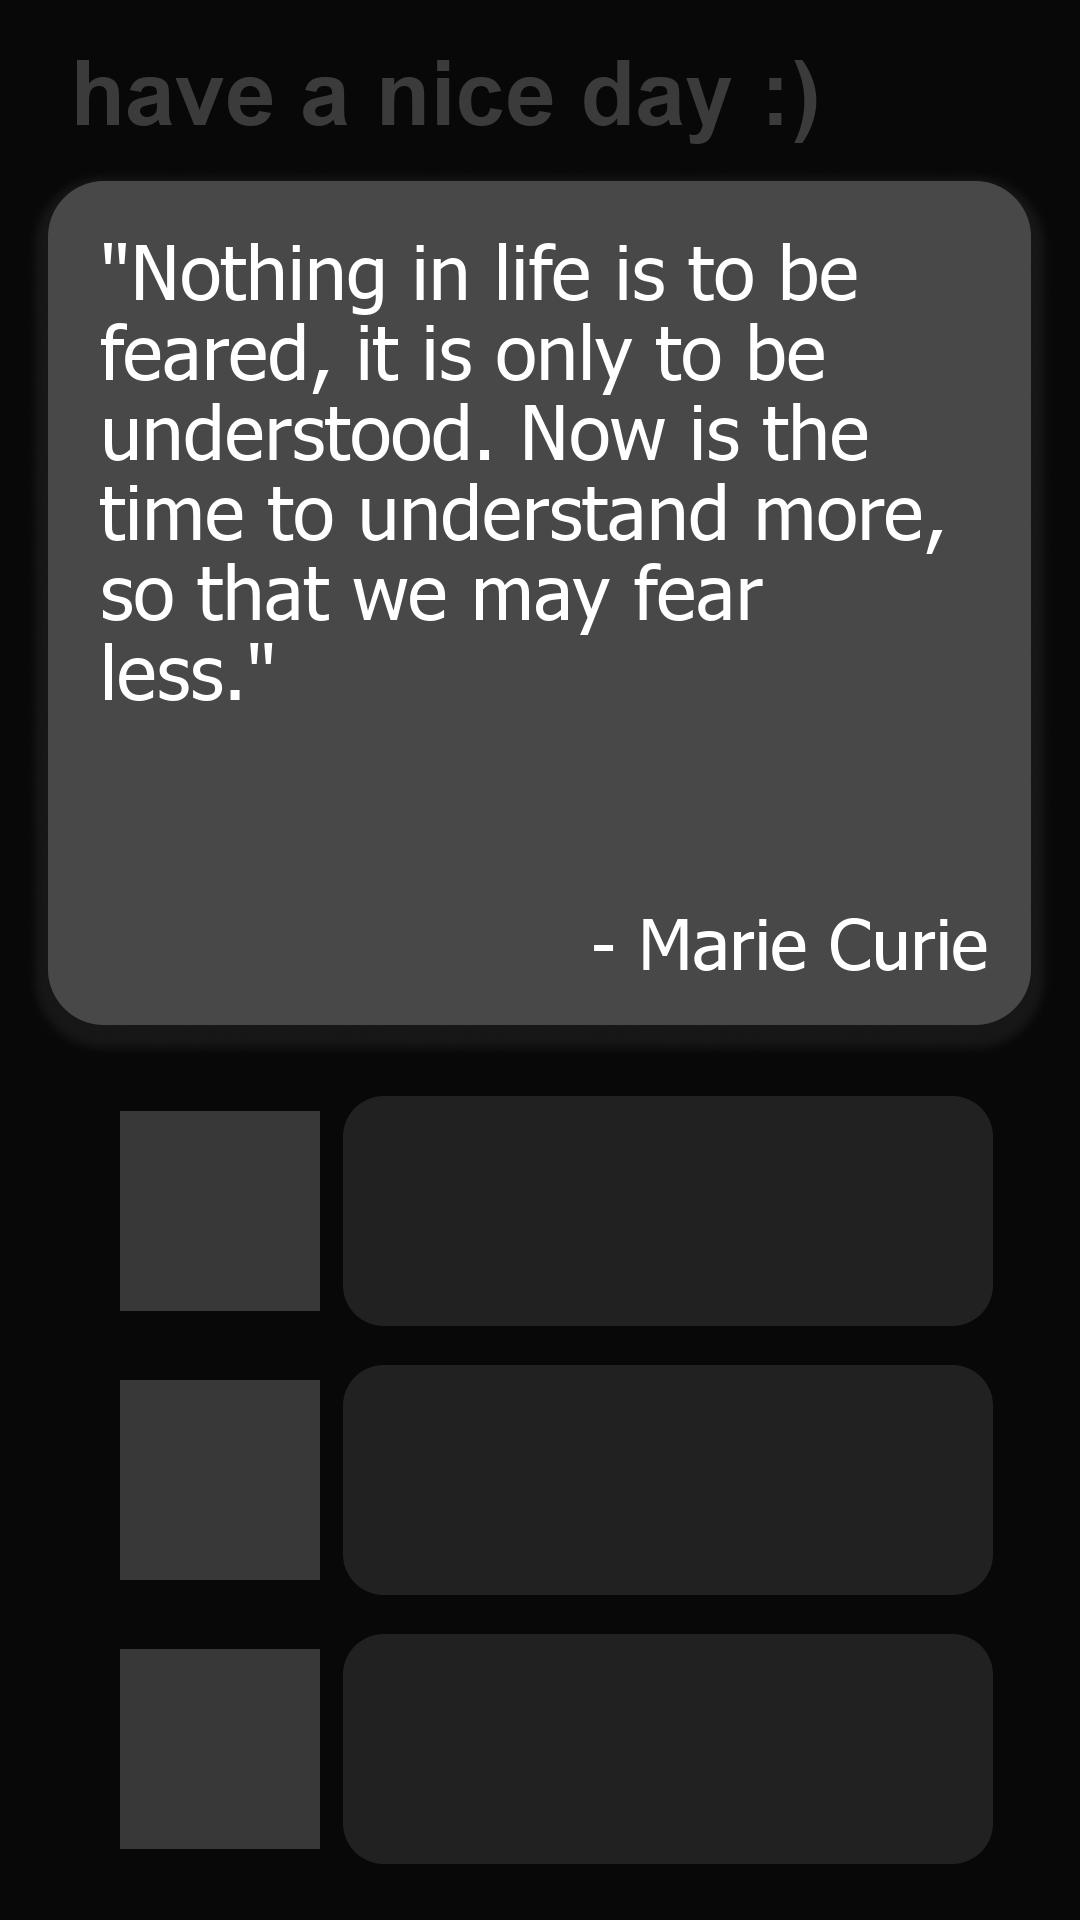
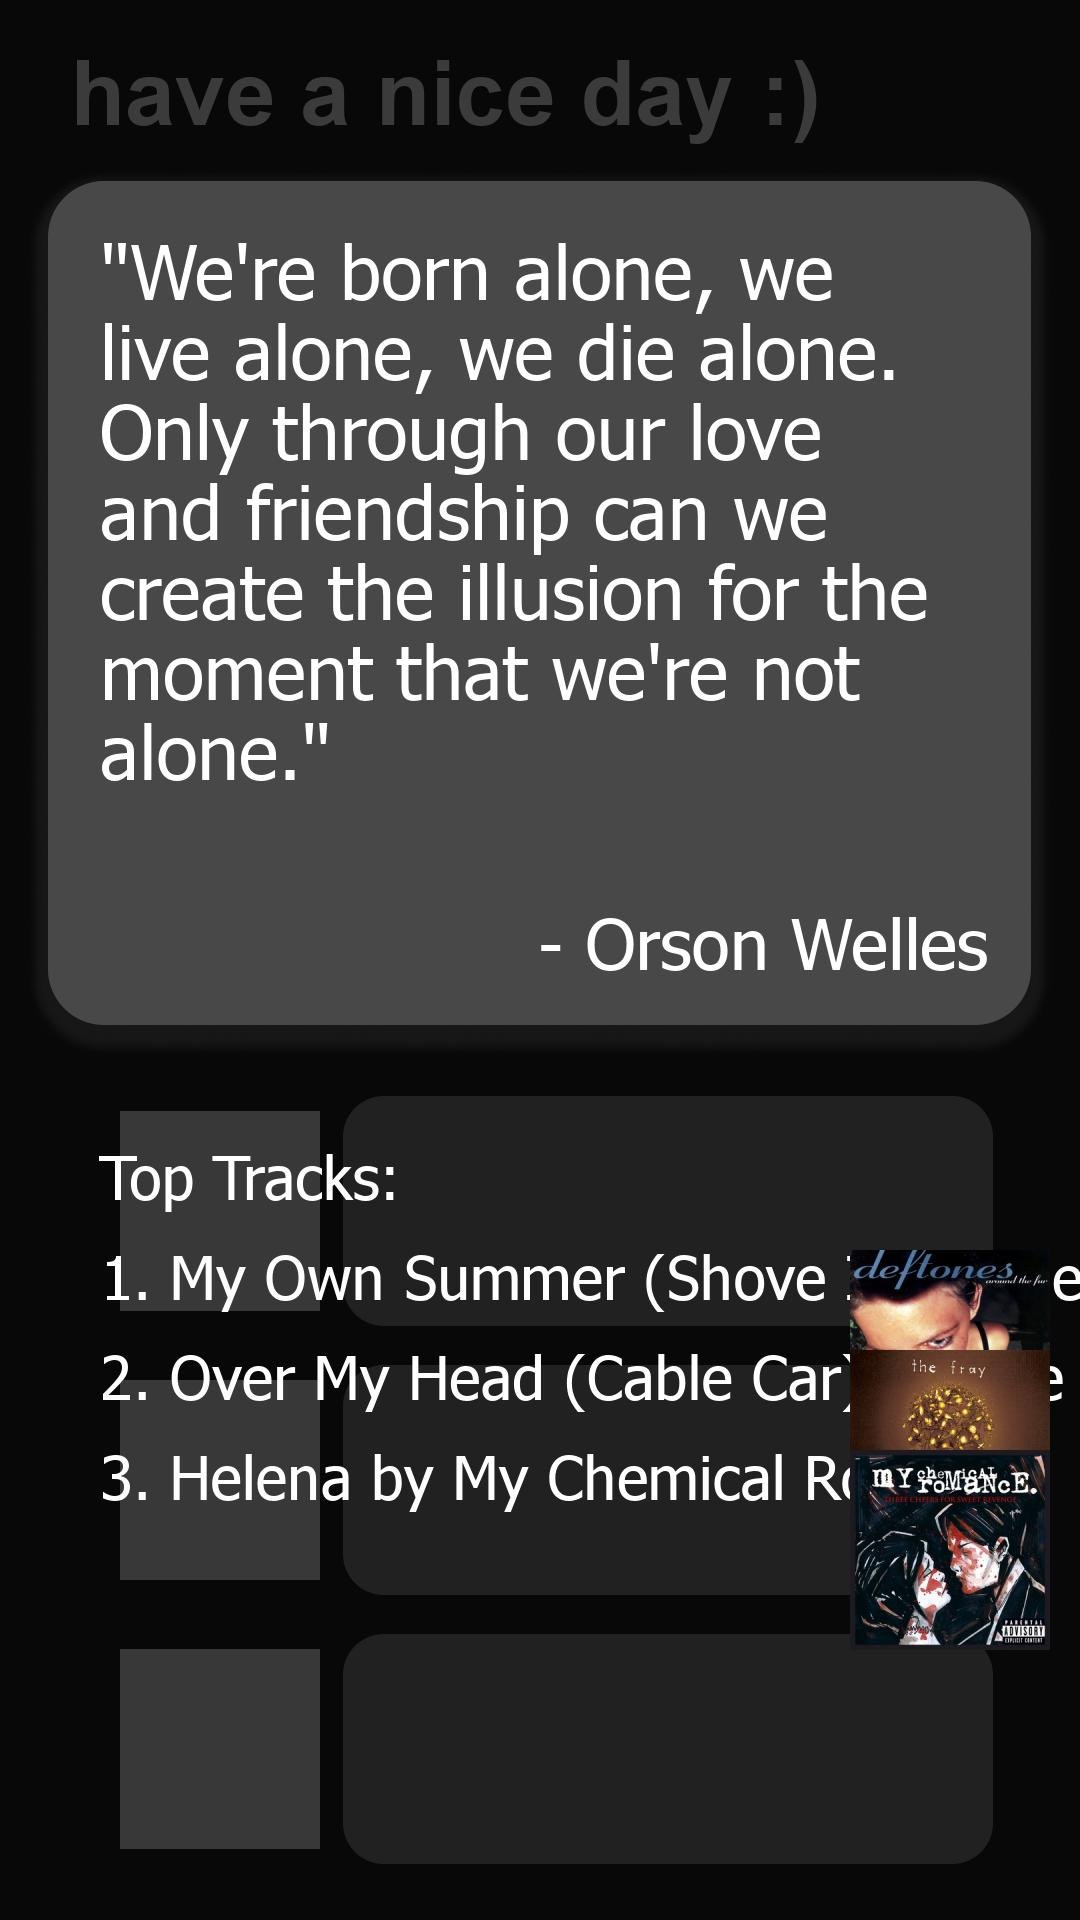
implemented the spotify api
needed to retrieve a refresh token to avoid the user authorization redirect

diff --git a/index.jsx b/index.jsx
@@ -1,16 +1,27 @@
-require("dotenv").config();
+require('dotenv').config();
 const { IgApiClient } = require('instagram-private-api');
 const axios = require('axios');
 const { createCanvas, loadImage } = require('canvas');
 const fs = require('fs');
 const path = require('path');
 const { promisify } = require('util');
+const SpotifyWebApi = require('spotify-web-api-node');
 
 // Promisify fs.readFile
 const readFileAsync = promisify(fs.readFile);
 
+// Validate environment variables
+const validateEnvVariables = () => {
+    const requiredVariables = ['IG_USERNAME', 'IG_PASSWORD', 'SPOTIFY_CLIENT_ID', 'SPOTIFY_CLIENT_SECRET'];
+    requiredVariables.forEach(variable => {
+        if (!process.env[variable]) {
+            throw new Error(`Environment variable ${variable} is not set`);
+        }
+    });
+};
+
 // Function to fetch a random quote
-async function getRandomQuote() {
+const getRandomQuote = async () => {
     try {
         const response = await axios.get('https://api.quotable.io/random');
         return {
@@ -21,10 +32,10 @@ async function getRandomQuote() {
         console.error('Error fetching quote:', error);
         throw error;
     }
-}
+};
 
 // Function to wrap text to fit within a specified width
-function wrapText(ctx, text, x, y, maxWidth, lineHeight, align = 'left') {
+const wrapText = (ctx, text, x, y, maxWidth, lineHeight, align = 'left') => {
     let words = text.split(' ');
     let line = '';
     let lines = [];
@@ -50,10 +61,10 @@ function wrapText(ctx, text, x, y, maxWidth, lineHeight, align = 'left') {
         const xPosition = align === 'right' ? x + (maxWidth - lineWidth) : x;
         ctx.fillText(line, xPosition, y + (index * lineHeight));
     });
-}
+};
 
 // Function to create an image with the quote in JPG format
-async function createImageWithQuote(quote, author) {
+const createImageWithQuote = async (quote, author, topTracks) => {
     const width = 1080;
     const height = 1920;
     const canvas = createCanvas(width, height);
@@ -62,15 +73,14 @@ async function createImageWithQuote(quote, author) {
     // Load the background image
     const backgroundImagePath = path.resolve(__dirname, 'storyBackground.png');
     const backgroundImage = await loadImage(backgroundImagePath);
-  
-     // Draw the background image
+
+    // Draw the background image
     ctx.drawImage(backgroundImage, 0, 0, width, height);
 
-
-    //title text
+    // Title text
     ctx.fillStyle = '#3b3b3b';
     ctx.font = 'bold 90px Arial';
-    ctx.fillText('have a nice day :)',70,125);
+    ctx.fillText('have a nice day :)', 70, 125);
 
     ctx.fillStyle = 'white';
     ctx.font = '75px Helvetica Neue';
@@ -92,14 +102,22 @@ async function createImageWithQuote(quote, author) {
     // Draw the author aligned to the right
     wrapText(ctx, `- ${author}`, authorTextPadding, 970, authorMaxWidth, lineHeight, 'right');
 
+    // Draw top tracks
+    ctx.font = '60px Helvetica Neue';
+    ctx.fillText('Top Tracks:', 100, 1200);
+    for (const [index, track] of topTracks.entries()) {
+        ctx.fillText(`${index + 1}. ${track.name} by ${track.artist}`, 100, 1300 + index * 100);
+        const albumCover = await loadImage(track.albumCoverUrl);
+        ctx.drawImage(albumCover, 850, 1250 + index * 100, 200, 200);
+    }
 
     const buffer = canvas.toBuffer('image/jpeg'); // Change to 'image/jpeg' for JPG format
-    
+
     // Define the absolute path for the image
     const imagePath = path.resolve(__dirname, 'quote_image.jpg');
     fs.writeFileSync(imagePath, buffer);
     return imagePath;
-}
+};
 
 // Function to upload the image to Instagram
 const uploadStory = async (imagePath) => {
@@ -110,7 +128,7 @@ const uploadStory = async (imagePath) => {
     try {
         // Read the file as a buffer
         const fileBuffer = await readFileAsync(imagePath);
-        
+
         // Upload the story
         await ig.publish.story({
             file: fileBuffer
@@ -119,10 +137,36 @@ const uploadStory = async (imagePath) => {
     } catch (error) {
         console.error('Error uploading story:', error.response ? error.response.data : error.message);
     }
-}
+};
 
-async function main() {
+// Function to fetch top tracks from Spotify
+const getTopTracks = async () => {
+    const spotifyApi = new SpotifyWebApi({
+        clientId: process.env.SPOTIFY_CLIENT_ID,
+        clientSecret: process.env.SPOTIFY_CLIENT_SECRET,
+        refreshToken: process.env.SPOTIFY_REFRESH_TOKEN
+    });
+
     try {
+        const data = await spotifyApi.refreshAccessToken();
+        spotifyApi.setAccessToken(data.body['access_token']);
+
+        const response = await spotifyApi.getMyTopTracks({ limit: 3, time_range: 'short_term' });
+        return response.body.items.map(track => ({
+            name: track.name,
+            artist: track.artists[0].name,
+            albumCoverUrl: track.album.images[1].url
+        }));
+    } catch (error) {
+        console.error('Error fetching top tracks:', error);
+        throw error;
+    }
+};
+
+const main = async () => {
+    try {
+        validateEnvVariables();
+
         // Fetch a random quote
         const { quote, author } = await getRandomQuote();
 
@@ -131,25 +175,39 @@ async function main() {
 
         // Upload the image to Instagram
         await uploadStory(imagePath);
+
+        // Fetch top tracks from Spotify
+        const topTracks = await getTopTracks();
+        console.log('Top Tracks:', topTracks);
     } catch (error) {
         console.error('Error in the main function:', error);
     }
-}
+};
 
-async function imageTest() {
+// Optional testing function
+const imageTest = async () => {
     try {
         // Fetch a random quote
         const { quote, author } = await getRandomQuote();
 
+        // fetch top tracks
+        const topTracks = await getTopTracks();
+
         // Create an image with the quote and get the absolute path
-        await createImageWithQuote(quote, author);
+        await createImageWithQuote(quote, author, topTracks);
 
         // Upload the image to Instagram
         // await uploadStory(imagePath);
     } catch (error) {
-        console.error('Error in the main function:', error);
+        console.error('Error in the imageTest function:', error);
     }
-}
+};
 
-//imageTest();
-main();
+// Uncomment for testing
+imageTest();
+
+// Run the main function
+//main();
+// const topTracks = getTopTracks();
+//         console.log('Top Tracks:', topTracks);
+

diff --git a/getRefresh.js b/getRefresh.js
@@ -1,0 +1,47 @@
+const express = require('express');
+const SpotifyWebApi = require('spotify-web-api-node');
+const cors = require('cors');
+require('dotenv').config();
+
+const app = express();
+const port = 3000;
+
+app.use(cors());
+
+// Initialize the Spotify API
+const spotifyApi = new SpotifyWebApi({
+    clientId: process.env.SPOTIFY_CLIENT_ID,
+    clientSecret: process.env.SPOTIFY_CLIENT_SECRET,
+    redirectUri: 'http://localhost:5173/callback'
+});
+
+app.get('/login', (req, res) => {
+    const scopes = ['user-top-read'];
+    const authorizeURL = spotifyApi.createAuthorizeURL(scopes);
+    console.log('Authorize URL:', authorizeURL);
+    res.redirect(authorizeURL);
+});
+
+app.get('/callback', async (req, res) => {
+    const code = req.query.code;
+    console.log('Authorization code received:', code);
+
+    try {
+        const data = await spotifyApi.authorizationCodeGrant(code);
+        const accessToken = data.body['access_token'];
+        const refreshToken = data.body['refresh_token'];
+
+        console.log('Access Token:', accessToken);
+        console.log('Refresh Token:', refreshToken);
+
+        res.send('Authorization successful! Check the console for the refresh token.');
+    } catch (error) {
+        console.error('Error getting tokens:', error);
+        res.send('Error getting tokens.');
+    }
+});
+
+app.listen(port, () => {
+    console.log(`Server running at http://localhost:${port}`);
+    console.log('Go to http://localhost:3000/login to authenticate');
+});
